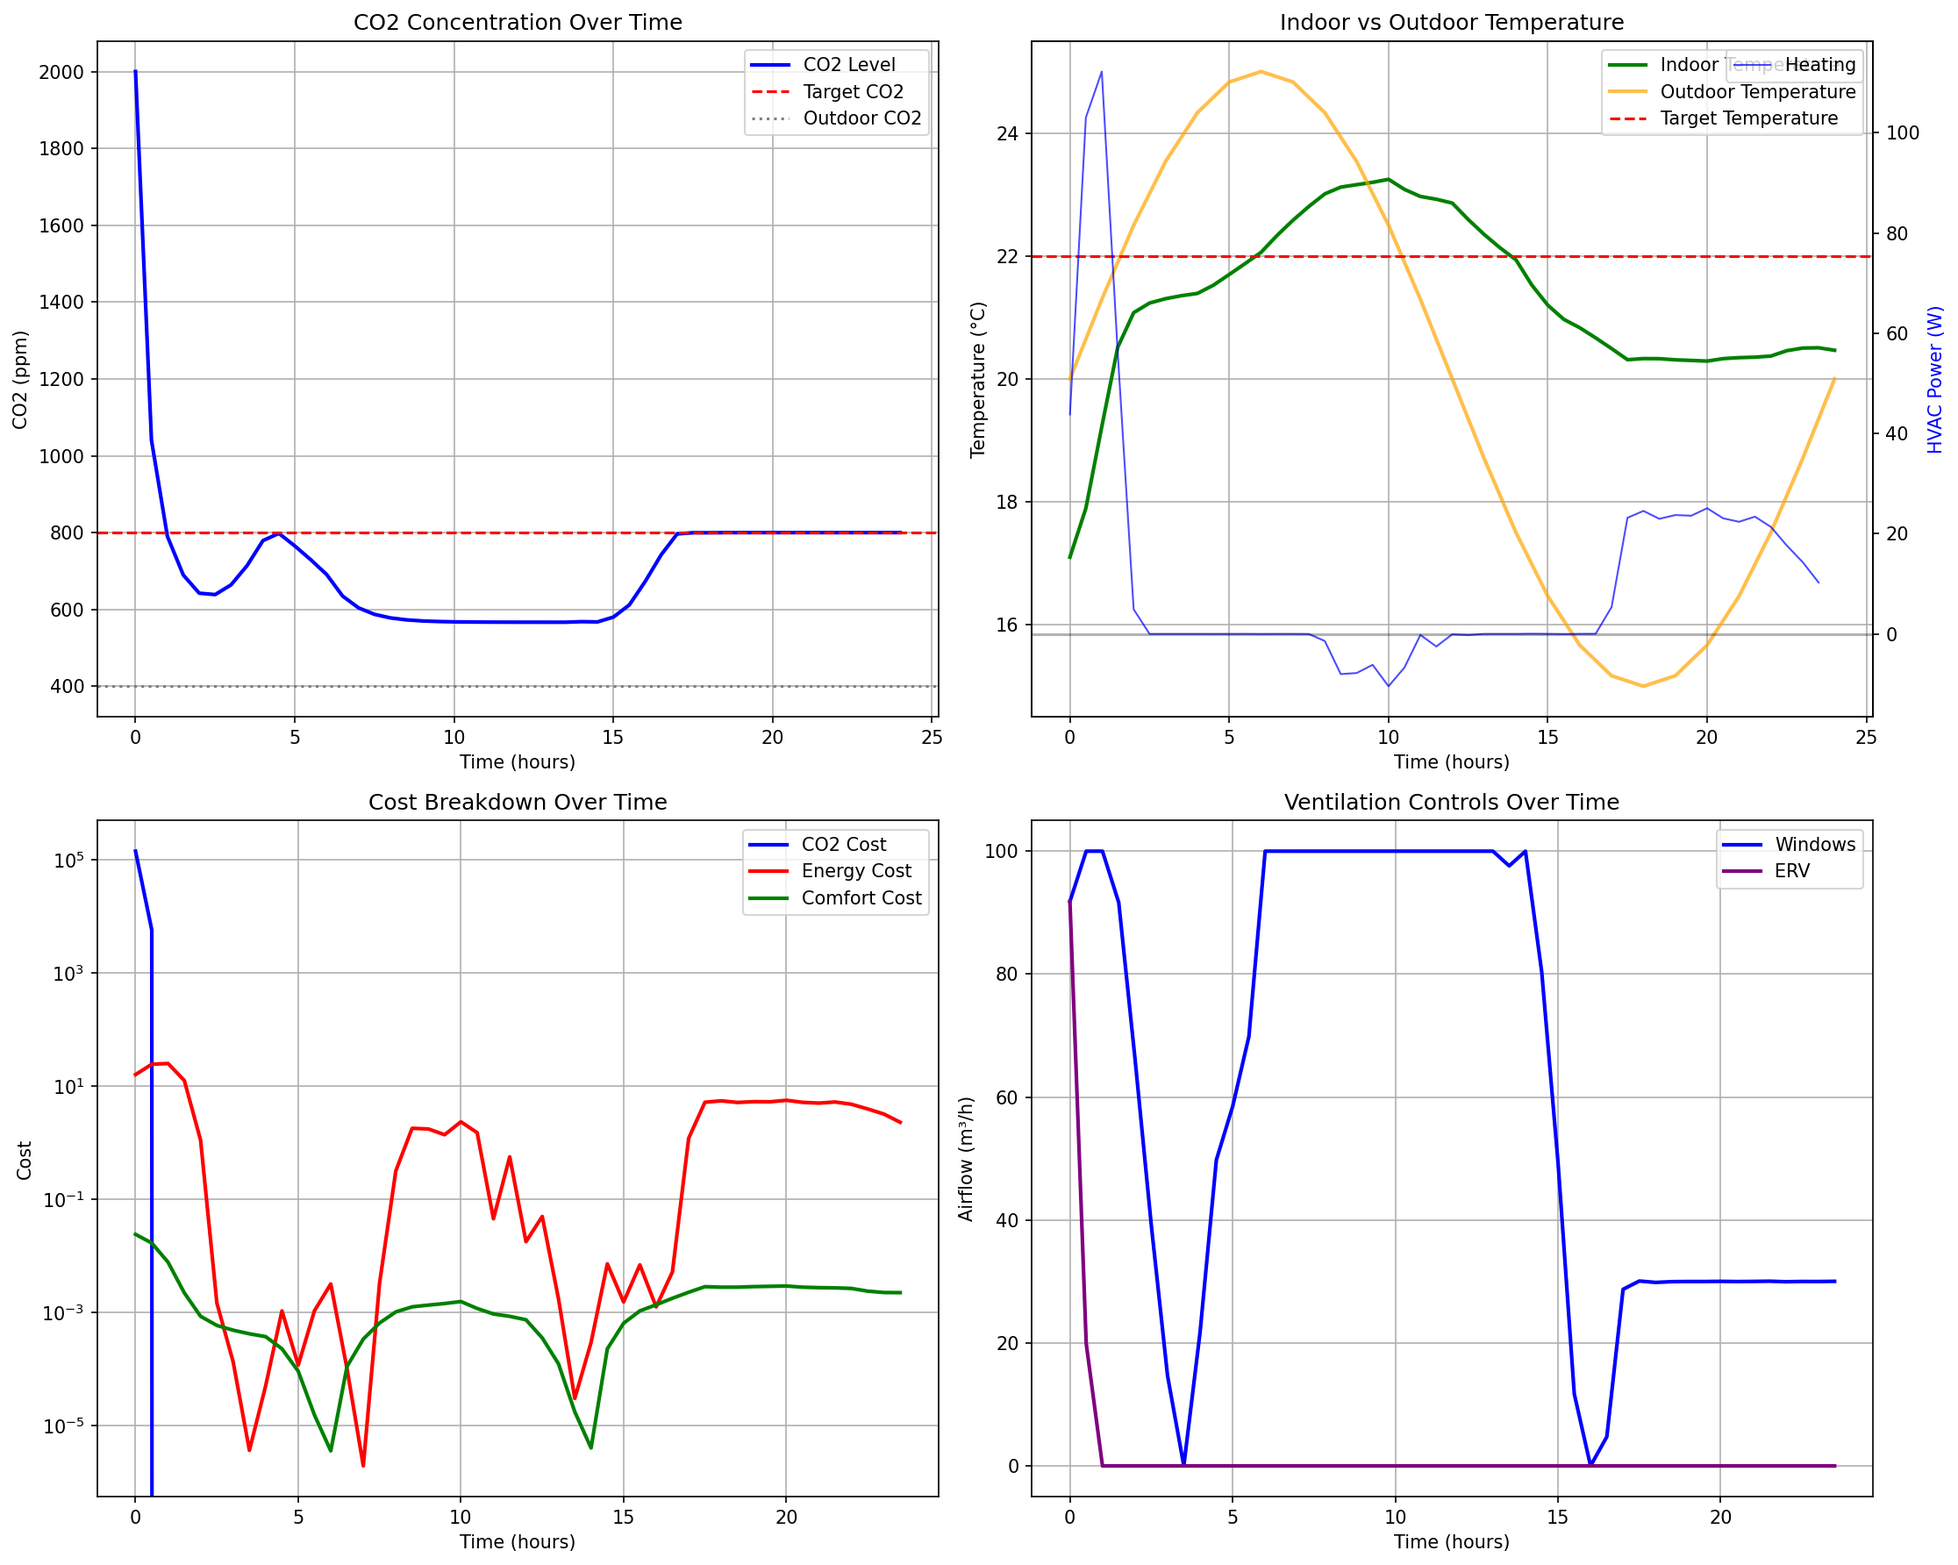
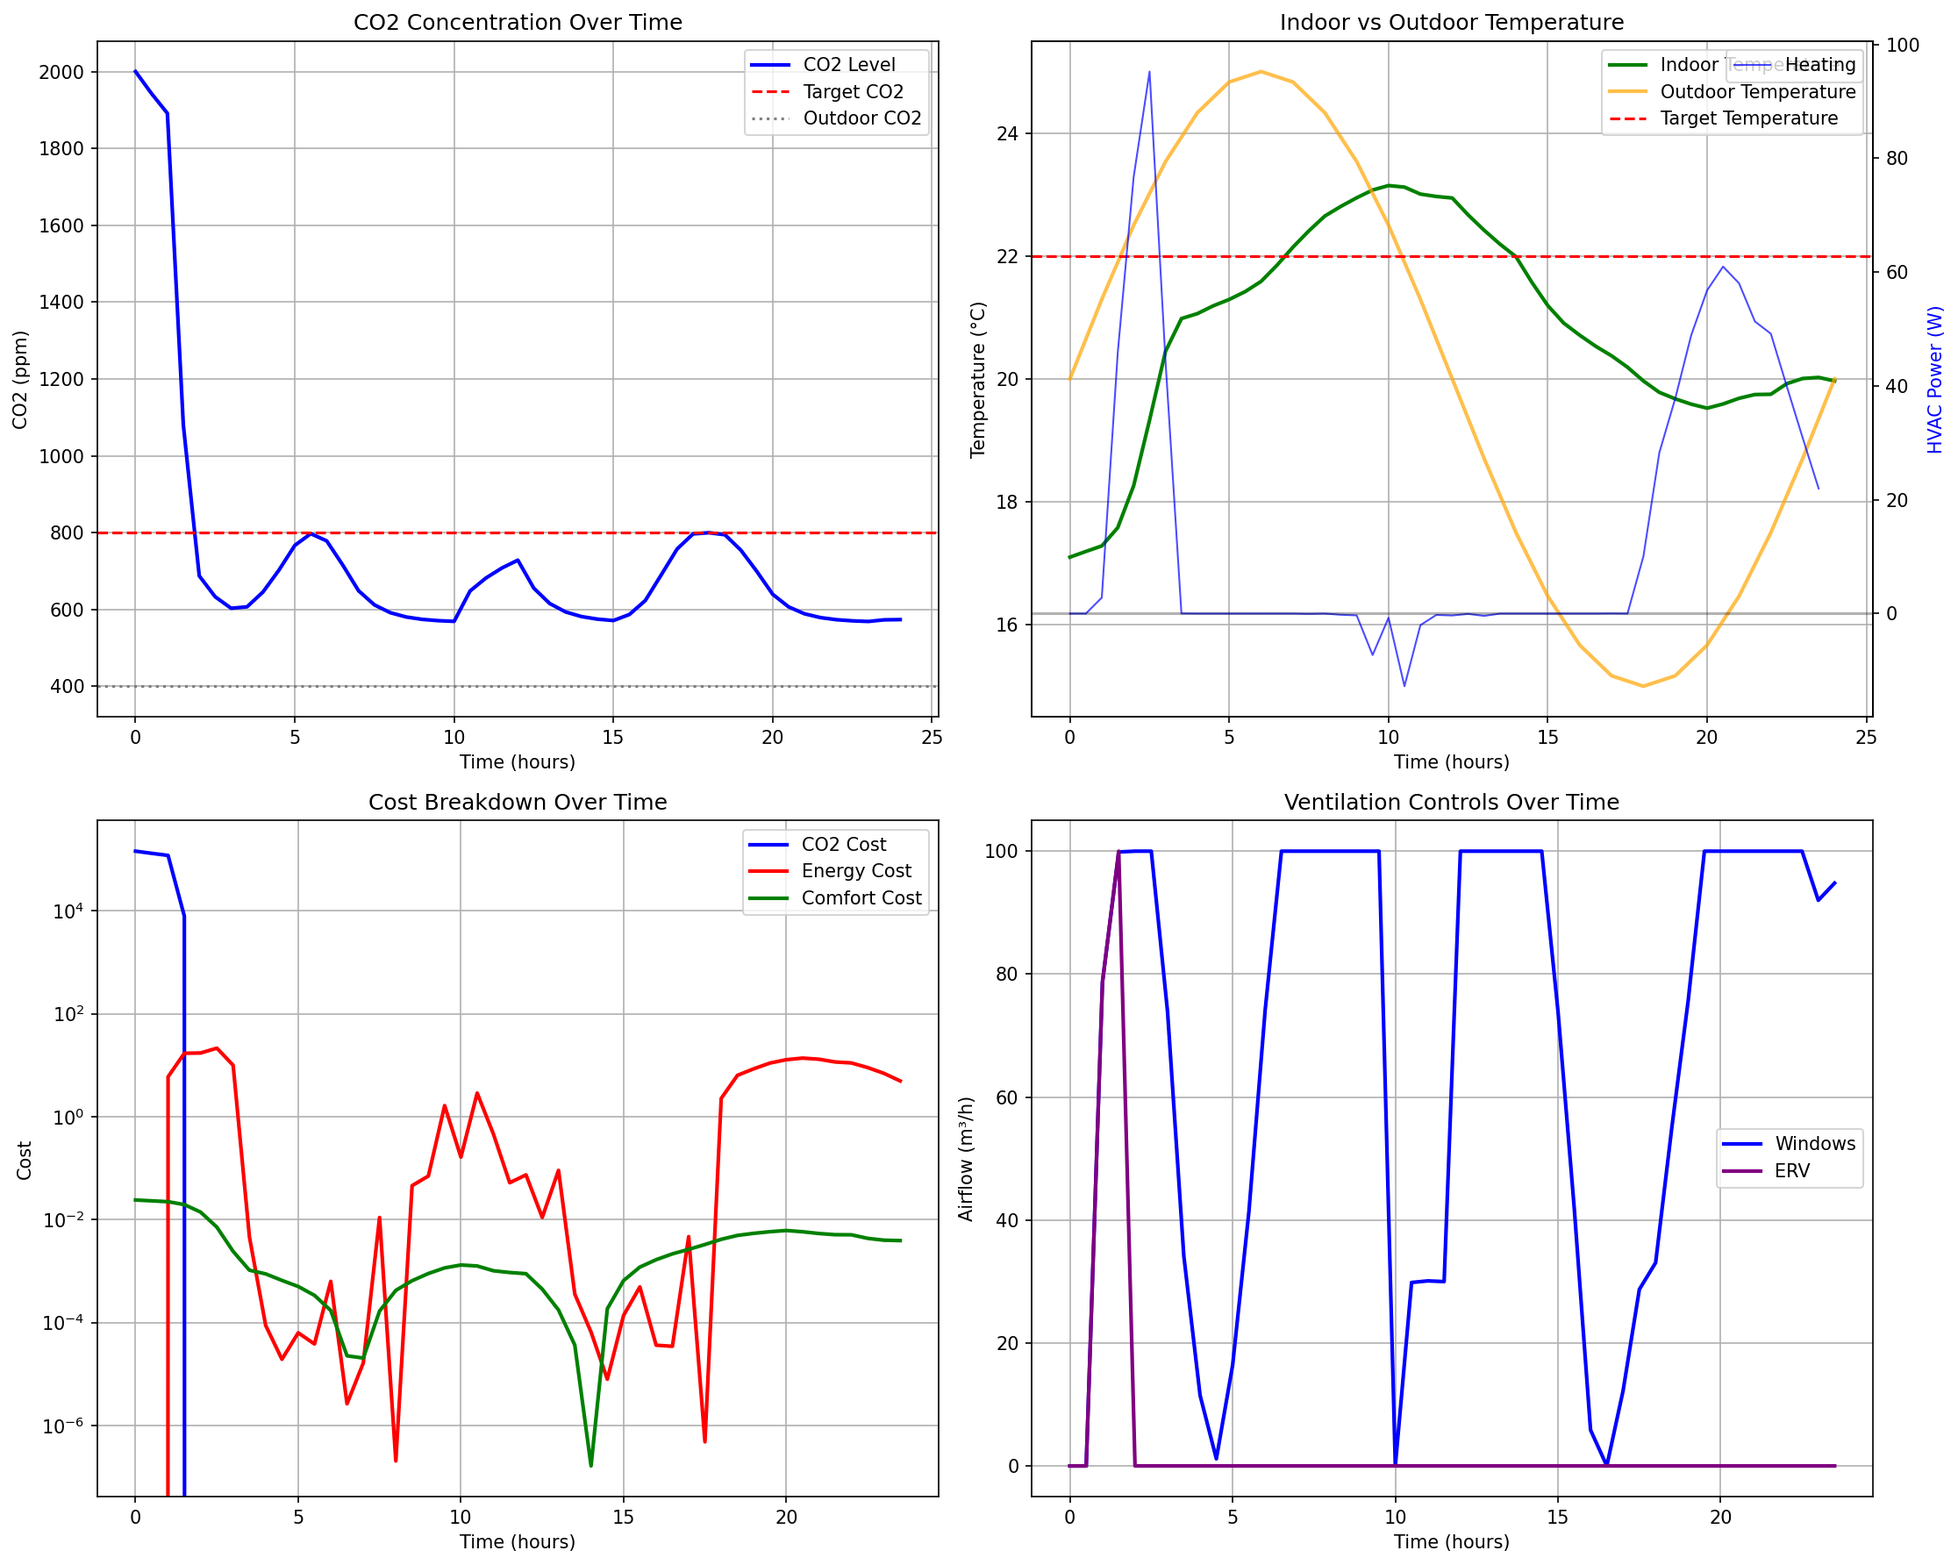
add boundary conditions and begin to add dynamic step sizes for faster convergence

diff --git a/src/controllers/hvac.py b/src/controllers/hvac.py
@@ -7,13 +7,9 @@ import base64
 import datetime
 import io
 import matplotlib.pyplot as plt
-import matplotlib
 import numpy as np
 import scipy.optimize as optimize
 from typing import List, Tuple, Optional, Dict, Any
-import time
-from concurrent.futures import ThreadPoolExecutor
-import threading
 
 from src.models.building import BuildingModel
 from src.controllers.ventilation.models import RoomCO2Dynamics
@@ -41,7 +37,9 @@ class HvacController:
                  step_size_hours: float = 0.25,
                  optimization_method: str = "L-BFGS-B",
                  max_iterations: int = 500, 
-                 use_boolean_occupant_comfort: bool = True):
+                 use_boolean_occupant_comfort: bool = True,
+                 use_soft_boundary_condition: bool = True, 
+                 dynamically_lengthen_step_sizes: bool = True):
         """
         Initialize integrated HVAC controller
         
@@ -56,6 +54,8 @@ class HvacController:
             optimization_method: Optimization method
             max_iterations: Maximum optimization iterations
             use_boolean_occupant_comfort: if occupancy is 0 don't care about temperature or CO2 levels
+            use_soft_boundary_condition: have a higher cost for the the last point's to emulate a boundary condition
+            dynamically_lengthen_step_sizes: use larger step sizes further in the future
         """
         self.room_dynamics = room_dynamics
         self.building_model = building_model
@@ -67,8 +67,11 @@ class HvacController:
         self.optimization_method = optimization_method
         self.max_iterations = max_iterations
         self.use_boolean_occupant_comfort = use_boolean_occupant_comfort
+        self.use_soft_boundary_condition = use_soft_boundary_condition
+        self.dynamically_lengthen_step_sizes = dynamically_lengthen_step_sizes
         # Time discretization
         self.step_size_seconds = step_size_hours * 3600
+        self.steps, self.cumulative_steps = self.generate_time_steps(self.step_size_hours, self.horizon_hours,  self.dynamically_lengthen_step_sizes)
         self.n_steps = int(horizon_hours / step_size_hours)
         
         # Control dimensions
@@ -200,11 +203,11 @@ class HvacController:
         deviation = max(0, co2_ppm - target_co2)
         return self.co2_weight * (deviation ** 2) * self._occupancy_comfort_cost_mult(time_hours_offset)
     
-    def energy_cost(self, ventilation_inputs: List[float], 
-                   hvac_input: float,
-                   indoor_temp_c: float, 
-                   outdoor_temp_c: float,
-                   time_hours: float = 0.0) -> float:
+    def energy_cost(
+            self, 
+            ventilation_inputs: List[float], 
+            hvac_input: float,
+            time_hours: float = 0.0) -> float:
         """
         Calculate total energy cost for ventilation and HVAC. Note that this is not the same as the energy cost of the building model.
 
@@ -213,8 +216,6 @@ class HvacController:
         Args:
             ventilation_inputs: Ventilation control inputs
             hvac_input: Heating/cooling control input (positive=heating, negative=cooling)
-            indoor_temp_c: Indoor temperature
-            outdoor_temp_c: Outdoor temperature
             time_hours: Current time for dynamic cost lookup
             
         Returns:
@@ -233,11 +234,13 @@ class HvacController:
         
         return total_cost_per_s
     
-    def cost_function(self, control_vector: np.ndarray,
-                     current_co2_ppm: float,
-                     current_temp_c: float,
-                     weather_series_hours: TimeSeries,
-                     start_time_hours_offset: float) -> float:
+    def cost_function(
+        self, 
+        control_vector: np.ndarray,
+        current_co2_ppm: float,
+        current_temp_c: float,
+        weather_series_hours: TimeSeries,
+        start_time_hours_offset: float) -> float:
         """
         Calculate total cost for integrated HVAC control
         
@@ -254,7 +257,6 @@ class HvacController:
         n_ventilation_vars = self.n_ventilation * self.n_steps
         ventilation_vector = control_vector[:n_ventilation_vars]
         hvac_vector = control_vector[n_ventilation_vars:]
-        
         # Reshape into sequences
         ventilation_sequences = []
         for i in range(self.n_ventilation):
@@ -289,13 +291,16 @@ class HvacController:
             outdoor_temp = weather.outdoor_temperature
             
             energy_cost = self.energy_cost(
-                ventilation_inputs, hvac_input,
-                temp_trajectory[i], outdoor_temp,
+                ventilation_inputs, 
+                hvac_input,
                 current_time_offset
             ) * self.step_size_seconds * self.energy_weight
             
-            total_cost += co2_cost + comfort_cost + energy_cost
-        
+            cost_of_step = co2_cost + comfort_cost + energy_cost
+            total_cost += cost_of_step
+        if self.use_soft_boundary_condition:
+            total_cost += cost_of_step * 5
+
         # Control smoothing penalty
         if self.u_prev is not None:
             for i in range(self.n_ventilation):
@@ -345,7 +350,7 @@ class HvacController:
             max_rate = self.room_dynamics.controllable_ventilations[i].max_airflow_m3_per_hour
             bounds.extend([(0.0, max_rate) for _ in range(self.n_steps)])
         # HVAC bounds (heating and cooling)
-        bounds.extend([(self.building_model.heating_model.output_range[0], self.building_model.heating_model.output_range[1]) for _ in range(self.n_steps)])
+        bounds.extend([self.building_model.heating_model.output_range for _ in range(self.n_steps)])
         
         # Optimize
         result = optimize.minimize(
@@ -359,7 +364,6 @@ class HvacController:
 
         if not result.success:
             print(f"Optimization failed: {result.message}")
-        
         # Extract optimal controls or best guess if optimization fails
         n_ventilation_vars = self.n_ventilation * self.n_steps
         ventilation_vector = result.x[:n_ventilation_vars]
@@ -474,7 +478,7 @@ class HvacController:
                         current_co2_ppm: float,
                         current_temp_c: float,
                         weather_series_hours: TimeSeries,
-                        start_time_hours: float = 0.0) -> Tuple[List[float], List[float], List[float], List[float], float, Dict[str, Any]]:
+                        start_time: datetime = 0.0) -> Tuple[List[float], List[float], List[float], List[float], float, Dict[str, Any]]:
         """
         Get detailed control information including predicted trajectories
         
@@ -487,7 +491,7 @@ class HvacController:
             Tuple of (ventilation_controls, hvac_controls, co2_trajectory, temp_trajectory, total_cost, additional_info)
         """
         ventilation_controls, hvac_controls, total_cost = self.optimize_controls(
-            current_co2_ppm, current_temp_c, weather_series_hours, start_time_hours
+            current_co2_ppm, current_temp_c, weather_series_hours, start_time
         )
         
         # Predict full trajectories
@@ -497,17 +501,48 @@ class HvacController:
         co2_trajectory, temp_trajectory = self.predict_trajectories(
             current_co2_ppm, current_temp_c,
             [ventilation_sequences, [hvac_sequence]],
-            weather_series_hours, start_time_hours
+            weather_series_hours, 0
         )
+
+        total_energy_cost = 0
+        for i in range(self.n_steps):
+            # CO2 cost
+            current_time_offset = i * self.step_size_hours
+            
+            # Energy cost
+            ventilation_inputs = [ventilation_sequences[j][i] for j in range(self.n_ventilation)]
+            hvac_input = hvac_sequence[i]
+            
+            total_energy_cost += self.energy_cost(
+                ventilation_inputs, 
+                hvac_input,
+                current_time_offset
+            ) * self.step_size_seconds
+            print(total_energy_cost, hvac_input)
+
         
-        additional_info = {
-            'final_co2': co2_trajectory[-1],
-            'final_temp': temp_trajectory[-1],
-            'max_co2': max(co2_trajectory),
-            'min_temp': min(temp_trajectory),
-            'max_temp': max(temp_trajectory),
-            'hvac_mode': 'heating' if hvac_controls[0] >= 0 else 'cooling',
-            'hvac_power': abs(hvac_controls[0])
+        return {
+            "ventillation_controls": ventilation_controls,
+            "hvac_controls": hvac_controls,
+            "co2_trajectory": co2_trajectory,
+            "temp_trajectory": temp_trajectory,
+            "total_energy_cost_dollars": total_energy_cost,
         }
-        
-        return ventilation_controls, hvac_controls, co2_trajectory, temp_trajectory, total_cost, additional_info 
+
+    def generate_time_steps(self, min_step_size_hours: float, horizon_hours: float, dynamically_lengthen_step_sizes: bool, double_size_every_x_points: int = 4):
+        total_times = []
+        steps = []
+        mult = 1
+        next_value = min_step_size_hours
+        while next_value < horizon_hours:
+            if not steps:
+                total_times.append(min_step_size_hours)
+                steps.append(min_step_size_hours)
+            else:            
+                steps.append(min_step_size_hours * mult)
+                total_times.append(next_value)
+            if dynamically_lengthen_step_sizes and len(steps) % double_size_every_x_points == 0:
+                mult *= 2
+            next_value = total_times[-1] + min_step_size_hours * mult
+
+        return steps, total_times

diff --git a/tests/test_controllers/test_hvac_controller.py b/tests/test_controllers/test_hvac_controller.py
@@ -1,0 +1,129 @@
+import dateutil.parser
+import numpy as np
+import unittest
+from src.controllers.hvac import HvacController
+from src.controllers.ventilation.models import (
+    RoomCO2Dynamics, WindowVentilationModel, HRVModel, 
+    ERVModel, NaturalVentilationModel, CO2Source
+)
+from src.models.building import BuildingModel, WallModel, WindowModel, RoofModel, PierAndBeam, Studs
+from src.models.thermal_device import HeatPumpThermalDeviceModel, ElectricResistanceThermalDeviceModel
+from src.controllers.hvac import HvacController
+from src.models.weather import WeatherConditions, SolarIrradiation
+from src.utils.orientation import Orientation
+from src.utils.timeseries import TimeSeries
+
+
+
+class TestWallModel(unittest.TestCase):
+
+    def create_example_room():
+        """Create a simple room setup for testing"""
+        
+        # Create ventilation models
+        window_vent = WindowVentilationModel()
+        erv_vent = ERVModel(heat_recovery_efficiency=0.9, fan_power_w_m3_per_hour=0.3)
+        natural_vent = NaturalVentilationModel(indoor_volume_m3=100.0, infiltration_rate_ach=0.2)
+        
+        # Create CO2 sources (occupants)
+        occupant_source = CO2Source(co2_production_rate_m3_per_hour=0.02)  # 2 people
+        
+        # Create room dynamics
+        room_dynamics = RoomCO2Dynamics(
+            volume_m3=100.0,
+            sources=[occupant_source],
+            controllable_ventilations=[window_vent, erv_vent],
+            natural_ventilations=[natural_vent],
+            outdoor_co2_ppm=400
+        )
+        
+        return room_dynamics
+
+
+    def create_example_building():
+        """Create a simple building model"""
+        
+        # Create building components
+        wall = WallModel(Studs(1.5, 3.5, 16), 13, 100, Orientation())
+        window = WindowModel(4, 20, 0.7)  # 20 m² of windows
+        roof = RoofModel(60, 50, Orientation(), 0.85)  # 50 m² roof
+        floor = PierAndBeam(Studs(1.5, 5.5, 16), 30, 50, Orientation())  # 50 m² floor
+        
+        # Create heating model
+        heating_model = HeatPumpThermalDeviceModel(hspf=9.0, output_range=(-10000, 10000))
+        # heating_model = ElectricResistanceThermalDeviceModel()
+        # Create building model
+        building_model = BuildingModel(
+            thermal_models=[wall, window, roof, floor],
+            heating_model=heating_model,
+            heat_capacity=10 ** 6  # J/K
+        )
+        
+        return building_model
+
+
+    def create_weather_timeseries(self, forecast_hours=48):
+        """Create a TimeSeries of weather conditions for the forecast period."""
+        
+        # Create time points (every 3 hours for forecast data)
+        time_points = [float(x) for x in range(0, forecast_hours + 1)]
+        weather_conditions = []
+        
+        for hour in time_points:
+            # Simple sinusoidal temperature variation
+            outdoor_temp = 20 + 5 * np.sin(2 * np.pi * hour / 24)
+            
+            # Create weather conditions
+            solar = SolarIrradiation(
+                altitude_rad=0.5,  # Simple fixed values
+                azimuth_rad=0.0,
+                intensity_w=800 * max(0, np.sin(2 * np.pi * hour / 24))
+            )
+            
+            weather = WeatherConditions(
+                irradiation=solar,
+                wind_speed=5.0,
+                outdoor_temperature=outdoor_temp,
+                ground_temperature=12.0
+            )
+            
+            weather_conditions.append(weather)
+        
+        # Create TimeSeries
+        weather_series = TimeSeries(time_points, weather_conditions)
+        return weather_series
+    room_dynamics = create_example_room()
+    building_model = create_example_building()
+
+    default_controller = HvacController(
+        room_dynamics=room_dynamics,
+        building_model=building_model,
+        horizon_hours=12.0,
+        co2_weight=0.1,
+        energy_weight=3000.0,
+        comfort_weight=0.001,
+        step_size_hours=0.5,
+        optimization_method="SLSQP",
+        max_iterations=500,
+    )
+    default_controller.set_saved_schedule({"monday": [
+        {"time": "09:00", "co2": 800, "temperature": 22, "energy_cost": 0.15, "occupancy_count": 1}]})
+
+
+    def test_step_sizes_static(self):
+        steps, cumulative_time = self.default_controller.generate_time_steps(0.25, 12, False)
+        self.assertTrue(all([x == 0.25 for x in steps]))
+        self.assertEqual(len(steps), len(cumulative_time))
+        self.assertLessEqual(cumulative_time[-1], 12)
+        self.assertSequenceEqual([int(x / 0.25) for x in cumulative_time], list(range(1, len(cumulative_time) + 1)))
+
+    def test_step_sizes_dynamic(self):
+        steps, cumulative_time = self.default_controller.generate_time_steps(0.25, 12, True)
+        self.assertTrue(all([x / 0.25 == int(x / 0.25) for x in steps]))
+        self.assertEqual(len(steps), len(cumulative_time))
+        self.assertLessEqual(cumulative_time[-1], 12)
+
+    def test_get_control_info_no_exception(self):
+        start_time = dateutil.parser.isoparse("2024-01-15T09:30:00Z")
+        control_info = self.default_controller.get_control_info(900, 20, self.create_weather_timeseries(), start_time)
+        print(control_info)

diff --git a/examples/example_hvac_controller.py b/examples/example_hvac_controller.py
@@ -152,7 +152,7 @@ def run_hvac_example():
     
     print(f"\nRunning step-by-step simulation for {simulation_steps} steps ({simulation_hours} hours)...")
     # pick random starting time
-    start_time = dateutil.parser.isoparse("2024-01-15T09:30:00")
+    start_time = dateutil.parser.isoparse("2024-01-15T09:30:00Z")
     for step in range(simulation_steps):
         # Current simulation time
         current_time = start_time + datetime.timedelta(hours = step * controller.step_size_hours)

diff --git a/tests/test_server/integration_test_prediction_api.py b/tests/test_server/integration_test_prediction_api.py
@@ -1,6 +1,6 @@
 #!/usr/bin/env python3
 """
-Test script for the new prediction API endpoints
+Test script for running the prediction API endpoints. Must spin up a local server first
 """
 
 import datetime
